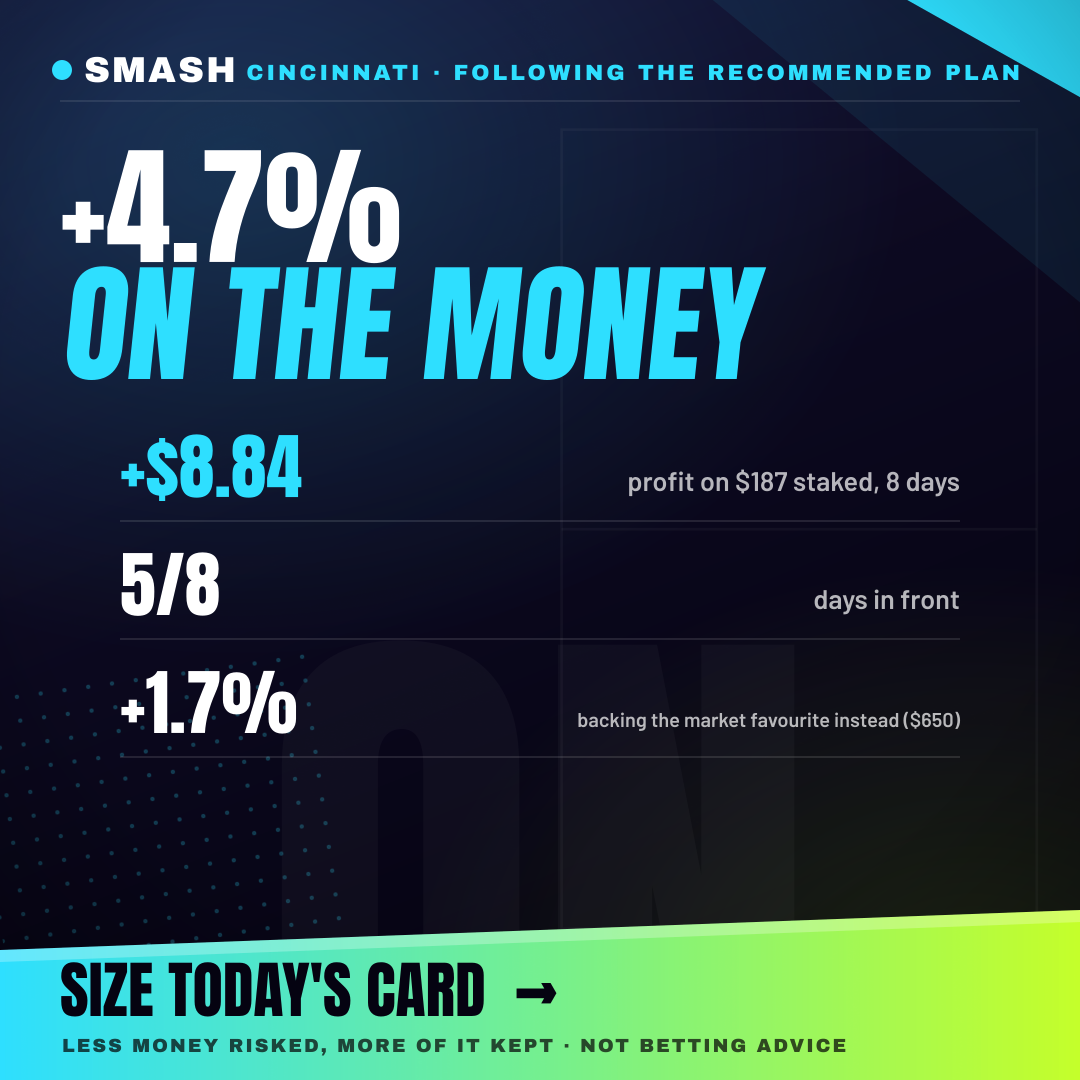
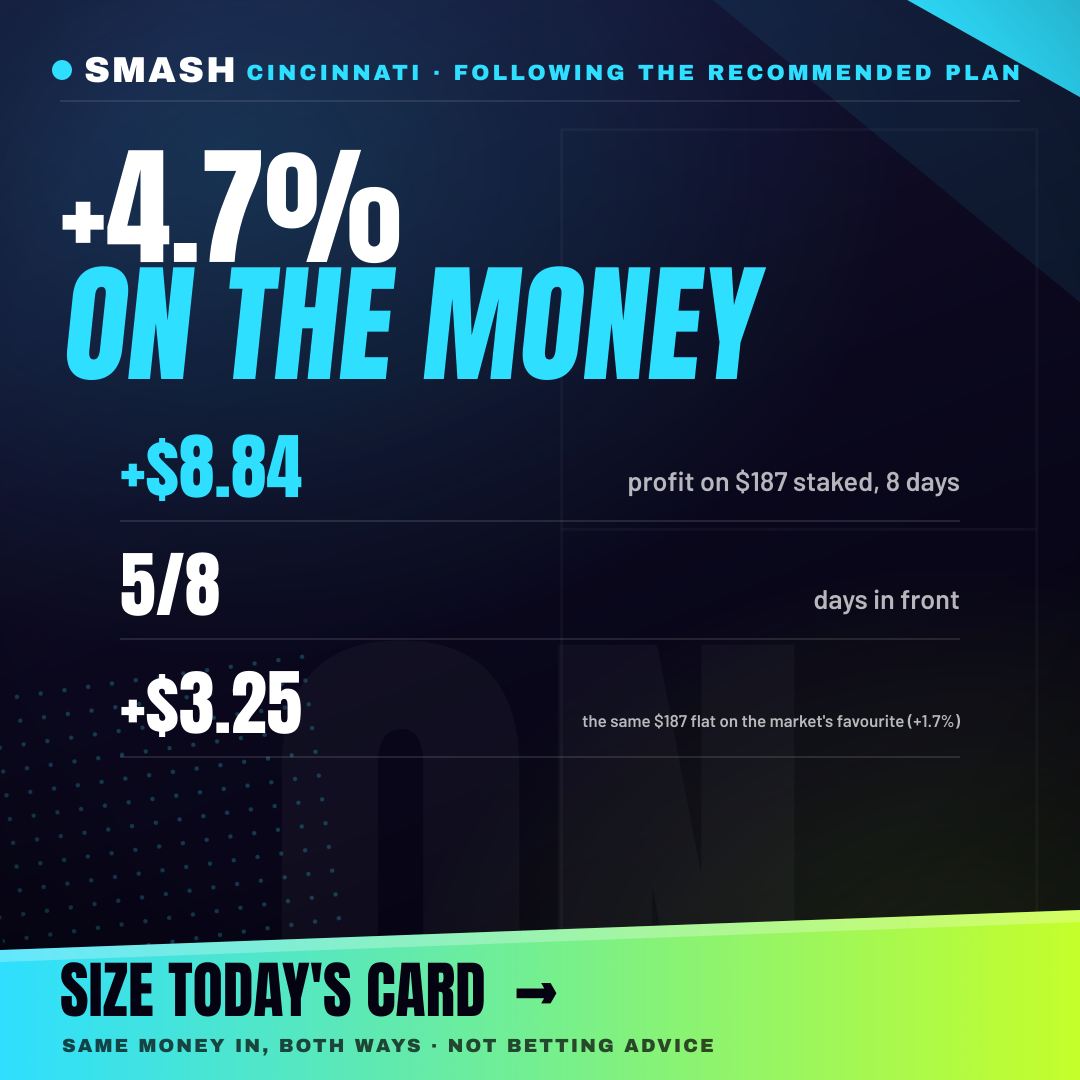
Compare the plan and the market on the same money
The live-plan card put the plan's $187 against the market's $650 and let the
market look better on absolute profit by risking three and a half times as
much. Two numbers measuring different amounts of money is not a comparison,
and putting both on the card only moved the problem to the reader.

The baseline is now the plan's own total stake, spread evenly over every match
on the same days - per-match stake derived from the plan rather than assumed.
ROI is unaffected by scaling, so the percentages mean what they always did,
and the dollars now answer the question a reader is asking: same money in,
which came out ahead. Cincinnati reads +$8.84 (+4.7%) against +$3.25 (+1.7%).

Also drops the handle from the CTA copy. "Follow" is the ask; the handle is
the button.

diff --git a/data-pipeline/buildShareAssets.js b/data-pipeline/buildShareAssets.js
@@ -1293,10 +1293,21 @@ async function upsetCallCard(p, file) {
   });
 }
 
-// EDGE: the live tournament, plan against market. Both framings on the card on
-// purpose - the plan wins on RETURN while staking a fraction of the money, so
-// quoting either number alone is a half-truth.
-async function livePlanCard({ event, days, profit, staked, roi, up, mktProfit, mktStaked, mktRoi }, file) {
+// EDGE: the live tournament, plan against market, on THE SAME MONEY.
+//
+// The first version of this card compared the plan's profit to flat-betting
+// the market's favourite at a fixed stake per match - and the market staked
+// $650 where the plan staked $187, so it "won" on absolute profit purely by
+// risking three and a half times as much. Two numbers measuring different
+// amounts of money is not a comparison, and putting both on a card just moved
+// the problem to the reader.
+//
+// The baseline is now scaled to the plan's own total stake: the same $187,
+// spread evenly over every match those days. ROI is unchanged by scaling, so
+// the percentages mean what they always did, and the dollar figures finally
+// answer the question a reader is actually asking - same money in, which came
+// out ahead.
+async function livePlanCard({ event, days, profit, staked, roi, up, mktProfit, mktRoi }, file) {
   await reportCard({
     eyebrowText: `${event} · following the recommended plan`,
     headline1: pctOf(roi),
@@ -1304,9 +1315,9 @@ async function livePlanCard({ event, days, profit, staked, roi, up, mktProfit, m
     stats: [
       { value: money(profit), label: `profit on $${staked.toFixed(0)} staked, ${days} days` },
       { value: `${up}/${days}`, label: 'days in front' },
-      { value: pctOf(mktRoi), label: `backing the market favourite instead ($${mktStaked.toFixed(0)})` },
+      { value: money(mktProfit), label: `the same $${staked.toFixed(0)} flat on the market's favourite (${pctOf(mktRoi)})` },
     ],
-    footNote: 'less money risked, more of it kept · not betting advice',
+    footNote: 'same money in, both ways · not betting advice',
     file,
     accent: roi >= 0 ? PAL.edge.key : '#ff5c5c',
     cta: 'SIZE TODAY\'S CARD  →',
@@ -2540,15 +2551,20 @@ async function run() {
     const days = liveEvent ? planSettle.eventDays(preds.predictions || [], liveEvent) : [];
     const run = days.length ? planSettle.planRun(preds.predictions || [], days) : null;
     if (run && run.days >= 3 && run.staked > 0) {
-      // Same days, same matches: flat stake on the bookmakers' own favourite.
+      // Same days, same matches, and crucially THE SAME TOTAL STAKE as the
+      // plan: the plan's budget spread evenly over every match on those days.
+      // A fixed per-match stake would have the baseline risking several times
+      // the plan's money, which makes its absolute profit meaningless next to
+      // the plan's. Per-match stake is derived, not assumed.
       const rows = ledger.filter((m) => days.includes(String(m.date).slice(0, 10)) && m.lockOdd1 > 1 && m.lockOdd2 > 1);
+      const perMatch = rows.length ? run.staked / rows.length : 0;
       let mktStaked = 0, mktProfit = 0;
       for (const m of rows) {
         const q1 = 1 / m.lockOdd1, q2 = 1 / m.lockOdd2;
         const fav = q1 > q2 ? m.p1 : m.p2;
         const o = fav === m.p1 ? m.lockOdd1 : m.lockOdd2;
-        mktStaked += STAKE;
-        mktProfit += m.winner === fav ? STAKE * (o - 1) : -STAKE;
+        mktStaked += perMatch;
+        mktProfit += m.winner === fav ? perMatch * (o - 1) : -perMatch;
       }
       const roi = (run.profit / run.staked) * 100;
       const mktRoi = mktStaked ? (mktProfit / mktStaked) * 100 : 0;
@@ -2557,8 +2573,8 @@ async function run() {
         staked: run.staked, roi, up: run.up, mktProfit, mktStaked, mktRoi,
       }, 'edge-live-plan.png');
       add('edge-live-plan.png', 'edge-live-plan', 'square', 'edge',
-        `${liveEvent}, following the recommended plan across ${run.days} settled days: ${money(run.profit)} on $${run.staked.toFixed(2)} staked, ${pctOf(roi)}, ${run.up} of ${run.days} days in front. Flat-staking the bookmakers' favourite over the same matches returned ${pctOf(mktRoi)} on $${mktStaked.toFixed(0)} - more money made, on three times the money risked. Less risked, more of it kept. Hypothetical, not betting advice. ${SITE}/parlay ${tags}`,
-        `${liveEvent}: the recommended plan returned ${pctOf(roi)} against the market's ${pctOf(mktRoi)}.`);
+        `${liveEvent}, following the recommended plan across ${run.days} settled days: ${money(run.profit)} on $${run.staked.toFixed(2)} staked, ${pctOf(roi)}, ${run.up} of ${run.days} days in front. Put that identical $${run.staked.toFixed(0)} flat across every match on the same days, backing the bookmakers' own favourite, and it comes back ${money(mktProfit)} - ${pctOf(mktRoi)}. Same money in, both ways. Hypothetical, settled at the price stamped before play, not betting advice. Follow for the plan every morning. ${SITE}/parlay ${tags}`,
+        `${liveEvent}: the recommended plan returned ${pctOf(roi)} against ${pctOf(mktRoi)} for the market's favourite on the same money.`);
     }
   }
 
